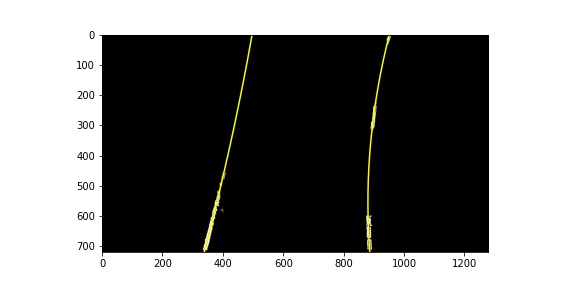
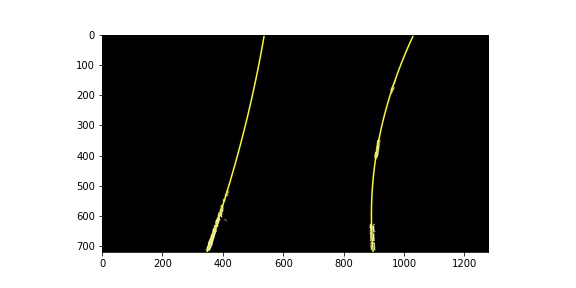
update readme add lane-section measuring details and a discussion section

Changed region(s): [[0.3438, 0.125, 0.4688, 0.875], [0.625, 0.125, 0.7188, 0.875]]

diff --git a/README.md b/README.md
@@ -24,11 +24,44 @@ The pipeline's first step is to undistort the camera image.  This step depends o
 2. Perspective transform preparation: a rectangular region (lane section) is extracted from a straight lane image then warped (into a rectangular region). The `Warper` class part of `loris.utils` implements and holds as an object the needed transformation and inverse transformation for the pipeline. The following parameters are used for current project.
 
 ```python
-src = {"tl": [554, 480], "tr": [736, 480], "bl": [214, 720], "br": [1116, 720]}
+from loris.perspective import PixelSize, Warper, rect_dict2nparray
+from loris.utils import draw_polygone, draw_line
+
+src = {"tl": [568, 468], "tr": [714, 468], "bl": [200, 720], "br": [1100, 720]}
 dest = {"tl": [320, 0], "tr": [960, 0], "bl": [320, 720], "br": [960, 720]}
+
+YM_PER_PIX = 26 / 690  #  Checked section length on google maps 4 + (2*(2 * 5.5)) a dash + 2 sep. (in the warped space)
+XM_PER_PIX = 3.7 / (960-320)  # meters per pixel in x dimension (in the warped space)
+
+pixel_size = PixelSize(y_pp=YM_PER_PIX, x_pp=XM_PER_PIX)
+
+# Visualization/Sanity check
+sample_image = cv2.imread(straight_lines_images[0])
+warper = Warper(rect_dict2nparray(src), rect_dict2nparray(dest))
+
+status, output = undistort(sample_image, calibration_output)
+
+plt.figure(figsize=(18, 5))
+
+if status:
+    ax = plt.subplot(1, 2, 1)
+    ax.set_title("(src rectangle) on straight lane  image ")
+    warped = warper.warp(output)
+    warped_ax = plt.subplot(1, 2, 2)
+    warped_ax.set_title("warped image")
+    ax.imshow(draw_polygone(rect_dict2nparray(src), cv2.cvtColor(output, cv2.COLOR_BGR2RGB)))
+    highlight_corners(ax, src)
+    # The delimits the measured section that to check its length in pixels (without loosing the region close to the car)
+    warped_ax.imshow(draw_line(draw_polygone(rect_dict2nparray(dest), cv2.cvtColor(warped, cv2.COLOR_BGR2RGB)),
+        np.array([200, 690]), np.array([1100, 690]), thickness=4))
+    highlight_corners(warped_ax, dest)
+plt.tight_layout()
+
 ```
 
-![warping transfomation](./output_images/perspective_transform.jpg?centerme) 
+![warping transfomation](./output_images/perspective_transform.jpg?centerme)
+
+![section measurement](./output_images/section_measurement.jpg?centerme)
 
 
 3. Thresholding image: Before transforming the image/frame using the previously setup perspective transformation,  a thresholding step is performed to keep only (as much as possible) lane pixels while filtering the non-relevant regions. The proposed threshold pipeline is implemented as the `threshold_pipeline` function, part of  `lane_detection/threshold.py` and worked well for the test video (eliminating the central shadow like line ). Below a demo/visualization of the thresholding component (left image)
@@ -55,7 +88,7 @@ if (status):
 
 ```
 
-![perspective transformed thresholded image](./output_images/perspective_transform_on_thresholded.jpg?centerme) 
+![perspective transformed thresholded image](./output_images/perspective_transform_on_thresholded.jpg?centerme)
 
 
 4. For each of thresholded image/frame we then apply a perspective transform (transforming a real word rectangular region) "bird-eye view" (right image of previous visualization). Then we do the core lane detection on the transformed (thresholded and warped) image.
@@ -64,14 +97,14 @@ if (status):
 
 5. A first step of the core line detection then is performed on the binarized then warped image:
     The pipeline implemented in `Lane_detector` keeps track (statefully) of a blended left/right information throughout processing the video.
-    The left and right sides of the lane are initialized simultaneously using `find_lane_pixels`. After the initialization, each line is represented as fitted second-order polynomial `x = f(y)`, then for each new frame/image, this polynomial is updated. Lane initialization and update are part of `loris.lane_detection.lane_detector.py` while the `Line` class keeps track of each lane side (a left one and a right one), composing the `LineDetector` processing/labeling object. 
+    The left and right sides of the lane are initialized simultaneously using `find_lane_pixels`. After the initialization, each line is represented as fitted second-order polynomial `x = f(y)`, then for each new frame/image, this polynomial is updated. Lane initialization and update are part of `loris.lane_detection.lane_detector.py` while the `Line` class keeps track of each lane side (a left one and a right one), composing the `LineDetector` processing/labeling object.
 
 ## Initialization
 
 
 As initializer `find_lane_pixels` is based on a  histogram peak search to define each side (white/thresholded image) pixels.
 
-![Lane initialization histogram](./output_images/perspective_transform_white_pixels_hitogram.jpg?centerme) 
+![Lane initialization histogram](./output_images/perspective_transform_white_pixels_hitogram.jpg?centerme)
 
 
 
@@ -104,7 +137,7 @@ from loris.calibration.utils import calibrate, undistort
 
 calibration_images = [image_path for image_path in sorted(glob("../data/calibration/*.jpg")) if np.array_equal(cv2.imread(image_path).shape[:2],  np.array([720, 1280]))]
 
-# Calibration artifacts extraction 
+# Calibration artifacts extraction
 calibration_output = calibrate(calibration_images)
 
 challenge_video = VideoFileClip('../data/videos/challenge_video.mp4')
@@ -133,9 +166,7 @@ See lane `lane_detector.convert` implementing the transofmation to meter (space/
 
 ## Relative vehicle position to the lane sides
 
-Assuming that the camera is mounted somewhere on the vehicle's central (longitudinal) axis, the lane car offset from the center is then obtained by: transforming the center of the original image to warped space, then computing the distance to the lane center convert it in meter. A positive offset value represents a car leaning to the right side, while a negative offset the vehicle leaning to the left side. 
-
-
+Assuming that the camera is mounted somewhere on the vehicle's central (longitudinal) axis, the lane car offset from the center is then obtained by: transforming the center of the original image to warped space, then computing the distance to the lane center convert it in meter. A positive offset value represents a car leaning to the right side, while a negative offset the vehicle leaning to the left side.
 
 
 # Lane detection on video (section)
@@ -143,3 +174,18 @@ Assuming that the camera is mounted somewhere on the vehicle's central (longitud
 
 
 Pipeline demo/details  in `notebooks/adv_lane_detection.ipynb`
+
+
+# Discussion
+
+
+ This section discusses some limitations as well as presenting some enhancement paths to explore.
+
+As it is highly dependent on the segmentation/thresholding results, successive multiple false detections of the lane's pixels could drive the lane detection far away from where it should be. In addition, since the current detection will contribute in the following frames that would not permit a fast recovery (after a possible challenging section). One improvement way is introducing a confidence criterion on the output of segmentation. A hint would be the distribution of the line pixels around the peaks during initialization or within the previous detection +/- margin during the update.
+
+The margin is constant through the depth of the image while the lane sides, as they are parallel ((in the world and intersecting with the image plan), get closer and closer in the image space (till intersection at vanishing point). Consequently, an improvement is to use variable margin. An alternative is to limit the section length to avoid collision between lane sides (right/left lines); however, the variable margin is a more generalized solution. And of course, we can control the minimum margin to where it makes sense to search as the left and right margin will get closer when we deeper/further in the section.
+
+
+A third issue with the current pipeline is that after the initialization: simultaneously extracting the left and right sides of the lane, the sides are getting independent during the update. With the help of a confidence criterion, as discussed before, we can transfer detection from a side to another (knowing a better RIGHT side detection, we enhance the one on the LEFT, and vice-versa). That would need a projection with proper lane width and the curvature radius (and center if not a straight section).
+
+Also, the pipeline is highly dependent on the initialization. Suppose it is not good enough, as presented above in the initialization section (output example), where the two sides contradict themselves. In that case, the margin search might not be able to recover afterward. An improvement is to use multiple frames for initialization instead of only considering the first one.
